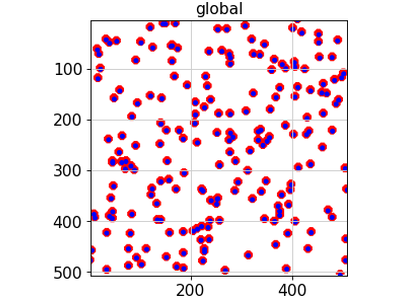
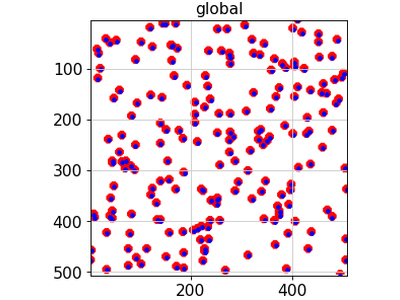
perf(render_points): drop the AnnData hack + fix the categorical cliff  (#730)

Pull request: perf(render_points): drop the AnnData hack + fix the categorical cliff
`render_points` built a full per-point `AnnData` on every call (even no-color), incurring AnnData's O(n) index-uniqueness check + dtype cast on both backends before drawing — so datashader never paid off. This removes that hack and the high-cardinality-categorical legend cliff.

**10M transcripts:** ~3× faster general (no-color 11→3.5s, continuous 9→2.6s); **~20×** for Xenium color-by-gene (16.9→0.9s). Output unchanged within visual-test tolerance.

**Changes**
- Drop the AnnData hack: coords from the points frame, color from the existing `get_values` merge, legend from `ColorSpec`.
- Skip the per-entry categorical legend past scanpy's 102-color palette limit (unreadable + O(categories²) to build).
- Datashader: single-color categoricals (e.g. scanpy's grey fallback) render via the cheap count path (byte-identical); matplotlib passes a scalar `color=` for uniform color instead of a per-point array.

**Behavior notes:** legend skipped >102 categories (warning); single-color categorical datashader renders as a count (byte-identical). Two single-color baselines shifted (sub-pixel antialiasing) and were regenerated.

diff --git a/src/spatialdata_plot/pl/render.py b/src/spatialdata_plot/pl/render.py
@@ -15,17 +15,14 @@ import matplotlib.pyplot as plt
 import matplotlib.ticker
 import numpy as np
 import pandas as pd
-import scanpy as sc
 import spatialdata as sd
 import xarray as xr
-from anndata import AnnData
 from matplotlib import patheffects
 from matplotlib.cm import ScalarMappable
 from matplotlib.colors import Colormap, ListedColormap, Normalize
 from scanpy._settings import settings as sc_settings
 from scanpy.plotting._tools.scatterplots import _add_categorical_legend
 from spatialdata import get_extent, get_values
-from spatialdata._core.query.relational_query import match_table_to_element
 from spatialdata.models import PointsModel, ShapesModel, get_table_keys
 from spatialdata.transformations import set_transformation
 from spatialdata.transformations.transformations import Identity
@@ -38,7 +35,6 @@ from spatialdata_plot.pl._color import (
     _get_colors_for_categorical_obs,
     _get_linear_colormap,
     _map_color_seg,
-    _maybe_set_colors,
     _prepare_cmap_norm,
     _resolve_continuous_norm,
     resolve_color,
@@ -48,6 +44,7 @@ from spatialdata_plot.pl._datashader import (
     _ax_show_and_transform,
     _build_ds_colorbar,
     _circle_buffer_quad_segs,
+    _color_vector_is_uniform,
     _datashader_canvas_from_dataframe,
     _get_extent_and_range_for_datashader_canvas,
     _hex_no_alpha,
@@ -333,7 +330,6 @@ def _add_legend_and_colorbar(
     ax: matplotlib.axes.SubplotBase,
     cax: ScalarMappable | None,
     fig_params: FigParams,
-    adata: AnnData | None,
     col_for_color: str | None,
     color_spec: ColorSpec,
     palette: ListedColormap | list[str] | None,
@@ -387,7 +383,6 @@ def _add_legend_and_colorbar(
             ax=ax,
             cax=cax,
             fig_params=fig_params,
-            adata=adata,
             value_to_plot=col_for_color,
             color_source_vector=color_source_vector,
             color_vector=color_vector,
@@ -755,7 +750,6 @@ def _render_shapes(
             color_spec=color_spec,
             norm=norm,
             na_color=render_params.cmap_params.na_color,
-            adata=table,
             col_for_color=col_for_color,
             palette=palette,
             fig_params=fig_params,
@@ -1025,7 +1019,6 @@ def _render_shapes(
         ax=ax,
         cax=cax,
         fig_params=fig_params,
-        adata=table,
         col_for_color=col_for_color,
         color_spec=color_spec,
         palette=palette,
@@ -1059,18 +1052,26 @@ def _scatter_points(
     Shared scatter primitive for points and the centroid "fast mode" of shapes/labels;
     ``color_vector`` is per-point hex strings or numeric values mapped through ``cmap``/``norm``.
     """
+    # When every marker is the same resolved hex colour (no-color / single colour / collapsed grey), pass a
+    # scalar ``color=`` instead of a per-point ``c=`` array: matplotlib then skips its per-point colour
+    # machinery — the dominant cost at scale (10M points: ~9s -> ~3.7s) — for a visually identical result.
+    # Numeric vectors keep the ``c=``/``cmap``/``norm`` path (they need the colormap).
+    cv = np.asarray(color_vector)
+    color_kwargs: dict[str, Any]
+    if cv.ndim == 1 and cv.dtype.kind in "US" and _color_vector_is_uniform(cv):
+        color_kwargs = {"color": str(cv[0])}
+    else:
+        color_kwargs = {"c": color_vector, "cmap": cmap, "norm": norm}
     return ax.scatter(
         x,
         y,
         s=size,
-        c=color_vector,
         rasterized=sc_settings._vector_friendly,
-        cmap=cmap,
-        norm=norm,
         alpha=alpha,
         transform=trans_data,
         zorder=zorder,
         plotnonfinite=True,  # nan points should be rendered as well
+        **color_kwargs,
     )
 
 
@@ -1110,7 +1111,6 @@ def _render_centroids_as_points(
     color_spec: ColorSpec,
     norm: Normalize | None,
     na_color: Any,
-    adata: AnnData | None,
     col_for_color: str | None,
     palette: Any,
     fig_params: FigParams,
@@ -1170,7 +1170,6 @@ def _render_centroids_as_points(
         ax=ax,
         cax=cax,
         fig_params=fig_params,
-        adata=adata,
         col_for_color=col_for_color,
         color_spec=color_spec,
         palette=palette,
@@ -1382,49 +1381,14 @@ def _render_points(
         else points_pd_with_color
     )
 
-    # we construct an anndata to hack the plotting functions
-    if table_name is None:
-        adata = AnnData(
-            X=points[["x", "y"]].values,
-            obs=points[coords],
-            dtype=points[["x", "y"]].values.dtype,
-        )
-    else:
-        matched_table = match_table_to_element(sdata=sdata, element_name=element, table_name=table_name)
-        adata_obs = matched_table.obs.copy()
-        # if the points are colored by values in X (or a different layer), add the values to obs
-        if col_for_color in matched_table.var_names:
-            if table_layer is None:
-                adata_obs[col_for_color] = matched_table[:, col_for_color].X.flatten()
-            else:
-                adata_obs[col_for_color] = matched_table[:, col_for_color].layers[table_layer].flatten()
-        adata = AnnData(
-            X=points[["x", "y"]].values,
-            obs=adata_obs,
-            dtype=points[["x", "y"]].values.dtype,
-            uns=matched_table.uns,
-        )
-        sdata_filt[table_name] = adata
-
-    # we can modify the sdata because of dealing with a copy
+    # Color (from a points column, table obs, or table var/X) is already materialized on `points` via
+    # the get_values merge above; coordinates and the legend come straight from `points`/`color_spec`,
+    # so no AnnData round-trip is needed. resolve_color reads the original table (kept in sdata_filt)
+    # for any user-defined uns palette.
 
     # Convert back to dask dataframe to modify sdata
     transformation_in_cs = sdata_filt.points[element].attrs["transform"][coordinate_system]
     _reparse_points(sdata_filt, element, points_for_model, transformation_in_cs, coordinate_system, col_for_color)
-
-    if col_for_color is not None:
-        assert isinstance(col_for_color, str)
-        cols = sc.get.obs_df(adata, [col_for_color])
-        # maybe set color based on type
-        if isinstance(cols[col_for_color].dtype, pd.CategoricalDtype):
-            uns_color_key = f"{col_for_color}_colors"
-            if uns_color_key in adata.uns:
-                _maybe_set_colors(
-                    source=adata,
-                    target=adata,
-                    key=col_for_color,
-                    palette=palette,
-                )
 
     # when user specified a single color, we emulate the form of `na_color` and use it
     default_color = (
@@ -1478,9 +1442,8 @@ def _render_points(
         color_spec = color_spec.filter(keep)
         if int(keep.sum()) == 0:
             return
-        # filter the materialized points, adata, and re-register in sdata_filt
+        # filter the materialized points and re-register in sdata_filt
         points = points[keep].reset_index(drop=True)
-        adata = adata[keep]
         _reparse_points(sdata_filt, element, points, transformation_in_cs, coordinate_system, col_for_color)
 
     color_spec = color_spec.apply_transfunc(render_params.transfunc)
@@ -1550,8 +1513,8 @@ def _render_points(
         update_parameters = not _mpl_ax_contains_elements(ax)
         cax = _scatter_points(
             ax,
-            adata[:, 0].X.flatten(),
-            adata[:, 1].X.flatten(),
+            points["x"].to_numpy(),
+            points["y"].to_numpy(),
             color_spec.color_vector,
             size=render_params.size,
             cmap=render_params.cmap_params.cmap,
@@ -1570,7 +1533,6 @@ def _render_points(
         ax=ax,
         cax=cax,
         fig_params=fig_params,
-        adata=adata,
         col_for_color=col_for_color,
         color_spec=color_spec,
         palette=None,
@@ -2409,7 +2371,6 @@ def _render_labels(
             ),
             norm=render_params.cmap_params.fresh_norm(),  # ax.scatter autoscales in place; don't mutate the shared norm
             na_color=na_color,
-            adata=table if table_name is not None else None,
             col_for_color=col_for_color,
             palette=palette,
             fig_params=fig_params,
@@ -2510,7 +2471,6 @@ def _render_labels(
         ax=ax,
         cax=cax,
         fig_params=fig_params,
-        adata=table,
         col_for_color=col_for_color,
         color_spec=color_spec,
         palette=palette,

diff --git a/src/spatialdata_plot/pl/_datashader.py b/src/spatialdata_plot/pl/_datashader.py
@@ -336,6 +336,19 @@ def _ds_shade_categorical(
     return _apply_user_alpha(shaded, alpha)
 
 
+def _color_vector_is_uniform(color_vector: Any) -> bool:
+    """True if every entry of the per-point colour vector is identical (so per-point colouring collapses).
+
+    Shared by the datashader categorical collapse and the matplotlib scalar-colour fast path.
+    """
+    if color_vector is None or len(color_vector) == 0:
+        return False
+    arr = np.asarray(color_vector)
+    if arr.dtype.kind in "US":  # fixed-width strings (the resolved-hex case): cheap vectorised compare
+        return bool((arr == arr[0]).all())
+    return pd.Series(arr).nunique(dropna=False) == 1  # object/other: hash-based, no sort
+
+
 def _shade_datashader_aggregate(
     cvs: ds.Canvas,
     frame: Any,
@@ -365,6 +378,14 @@ def _shade_datashader_aggregate(
     element-specific prep (geometry transform / point parse), outline rendering, ``_render_ds_image``
     and ``_build_ds_colorbar``.
     """
+    # Single-colour collapse: when every point resolves to the same colour (e.g. past scanpy's
+    # 102-colour palette all categories are uniform grey), the per-category ds.by aggregate + composite
+    # is wasted and byte-identical to a plain single-colour count render. Detect it from the colour
+    # vector and route to the cheap count path — ~14x faster on high-cardinality categoricals (Xenium
+    # points coloured by gene). _ds_shade_categorical then colours the count by color_vector[0].
+    if color_by_categorical and _color_vector_is_uniform(color_vector):
+        col_for_color, color_by_categorical = None, False
+
     agg, reduction_bounds, nan_agg = _ds_aggregate(
         cvs, frame, col_for_color, color_by_categorical, ds_reduction, default_reduction, kind
     )
@@ -376,15 +397,16 @@ def _shade_datashader_aggregate(
 
     if (
         strip_alpha_hex
+        and col_for_color is not None  # no-color/collapse: _ds_shade_categorical strips color_vector[0] itself
         and color_vector is not None
         and len(color_vector) > 0
         and isinstance(color_vector[0], str)
         and color_vector[0].startswith("#")
     ):
-        # color_vector usually holds only a few distinct hex strings (one per category), so strip
-        # alpha on the unique values and map back rather than parsing once per point.
-        unique_hex, inverse = np.unique(color_vector, return_inverse=True)
-        color_vector = np.asarray([_hex_no_alpha(c) for c in unique_hex])[inverse]
+        # Strip alpha on the unique colours and map back rather than parsing once per point; pd.factorize
+        # dedups in O(n) (hash, no sort) where np.unique would sort millions of strings.
+        codes, uniques = pd.factorize(np.asarray(color_vector))
+        color_vector = np.asarray([_hex_no_alpha(c) for c in uniques])[codes]
 
     # density without a color column collapses to a sequential count gradient; everything else with no
     # explicit continuous value (categorical or no color) goes through the categorical shader.

diff --git a/src/spatialdata_plot/pl/utils.py b/src/spatialdata_plot/pl/utils.py
@@ -31,6 +31,7 @@ from matplotlib_scalebar.scalebar import ScaleBar
 from pandas.api.types import CategoricalDtype, is_numeric_dtype
 from pandas.core.arrays.categorical import Categorical
 from scanpy import settings
+from scanpy.plotting import palettes
 from scanpy.plotting._tools.scatterplots import _add_categorical_legend
 from spatialdata import (
     SpatialData,
@@ -447,6 +448,12 @@ def _stack_categorical_legend(
     new_leg._sdata_column = column  # type: ignore[attr-defined]
 
 
+# A per-entry legend past this many categories is unreadable, and scanpy builds it in O(categories^2)
+# (one autoscaling artist each), dominating the render — so skip it with a warning. Tied to scanpy's
+# default_102 palette, beyond which its *default* colors also stop being distinguishable (uniform grey).
+_MAX_LEGEND_CATEGORIES = len(palettes.default_102)
+
+
 def _decorate_axs(
     ax: Axes,
     cax: PatchCollection,
@@ -454,7 +461,6 @@ def _decorate_axs(
     value_to_plot: str | None,
     color_source_vector: pd.Series[CategoricalDtype] | Categorical,
     color_vector: pd.Series[CategoricalDtype] | Categorical,
-    adata: AnnData | None = None,
     palette: ListedColormap | str | list[str] | None = None,
     alpha: float = 1.0,
     na_color: Color = Color("default"),
@@ -499,6 +505,14 @@ def _decorate_axs(
             already = any(tagged)
             if legend_loc in (None, "none"):
                 pass  # legend suppressed
+            elif len(clusters) > _MAX_LEGEND_CATEGORIES:
+                # A per-entry legend this large is unreadable and scanpy builds it in O(categories^2)
+                # (one autoscaling artist each), dominating the render. Skip it.
+                logger.warning(
+                    f"Skipping the categorical legend for '{value_to_plot}': {len(clusters)} categories "
+                    f"exceed the {_MAX_LEGEND_CATEGORIES}-entry limit (unreadable and very slow to build). "
+                    f"Pass a `groups` subset to get a legend."
+                )
             elif already:
                 na_hex = na_color.get_hex() if (na_in_legend and pd.isnull(color_source_vector).any()) else None
                 _stack_categorical_legend(